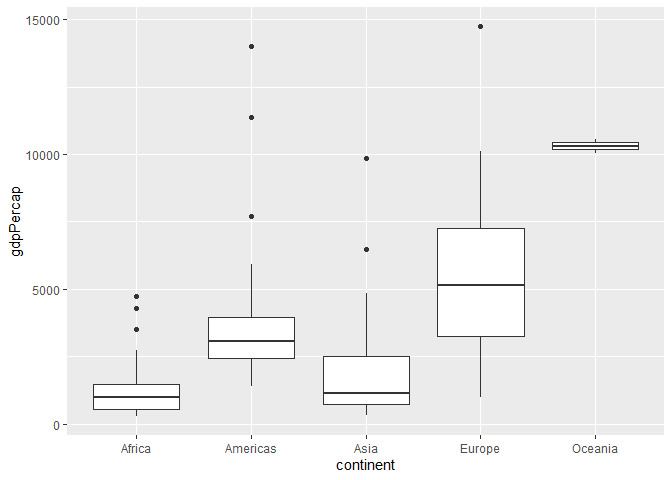
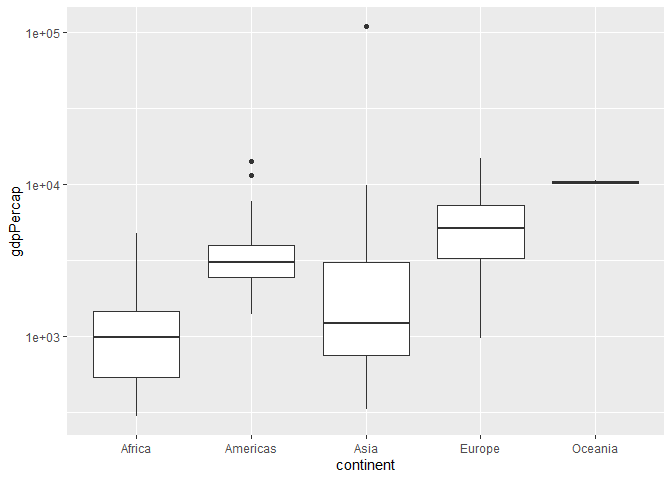
adjust scale to log instead of removing outlier

diff --git a/challenges/c04-gapminder-assignment.md b/challenges/c04-gapminder-assignment.md
@@ -225,9 +225,9 @@ can.
 year_min_data <-
   gapminder %>%
   filter(year == year_min) %>%
-  filter(gdpPercap <= 60000) %>%
   ggplot() +
-    geom_boxplot(mapping = aes(continent, gdpPercap))
+    geom_boxplot(mapping = aes(continent, gdpPercap)) +
+    scale_y_log10()
 year_min_data
 ```
 
@@ -253,9 +253,9 @@ year_min_data
   significant outlier where in 1952 the GDP per capita was over
   \$100,000. Since most continents had a GDP per capita of under
   \$15,000, all the data was compressed to be able to fit this outlier.
-  To be able to see most of the data in an informative manner, I took
-  out this outlier. This allows us to see the distribution of the GDP
-  per capita for the different continents.
+  To be able to see most of the data in an informative manner, I
+  adjusted the y-axis to be a log scale. While this is less intuitive to
+  interpret, it prevents the compression of most of the data.
 
 ### **q3** You should have found *at least* three outliers in q2 (but possibly many more!). Identify those outliers (figure out which countries they are).
 
@@ -338,7 +338,6 @@ label:
 ## NOTE: No need to edit, use ideas from this in q4 below
 gapminder %>%
   filter(year == max(year)) %>%
-
   ggplot(aes(continent, lifeExp)) +
   geom_boxplot() +
   geom_point(
@@ -359,7 +358,6 @@ variables; think about using different aesthetics or facets.
 year_min_vs_max <-
   gapminder %>%
   filter(year == min(year) | year == max(year)) %>%
-  filter(gdpPercap <= 60000) %>%
   ggplot(aes(continent, gdpPercap)) +
   geom_boxplot() +
   geom_point(
@@ -367,6 +365,7 @@ year_min_vs_max <-
     mapping = aes(color = country),
     size = 2
   ) +
+  scale_y_log10() +
   facet_grid(~year)
 year_min_vs_max
 ```
@@ -385,11 +384,11 @@ year_min_vs_max
   outlier countries we saw in 1952 that had a major increase in GDP per
   capita by 2007 (\>\$10,000) include Canada, United States, Saudi
   Arabia, Bahrain, and Switzerland. Kuwait is still an outlier in Asia,
-  but it now fits on the graph, showing that the GDP per capita in
-  Kuwait dropped a significant amount between 1952 and 2007. Oceania
-  still doesn’t have any outliers but it does have a greater spread of
-  data. There are only a few additional outliers in the data in 2007
-  that weren’t outliers in 1952 and they are all in Africa.
+  but the GDP per capita in Kuwait dropped a significant amount between
+  1952 and 2007. Oceania still doesn’t have any outliers but it does
+  have a greater spread of data. There are only a few additional
+  outliers in the data in 2007 that weren’t outliers in 1952 and they
+  are all in Africa.
 
 # Your Own EDA
 
